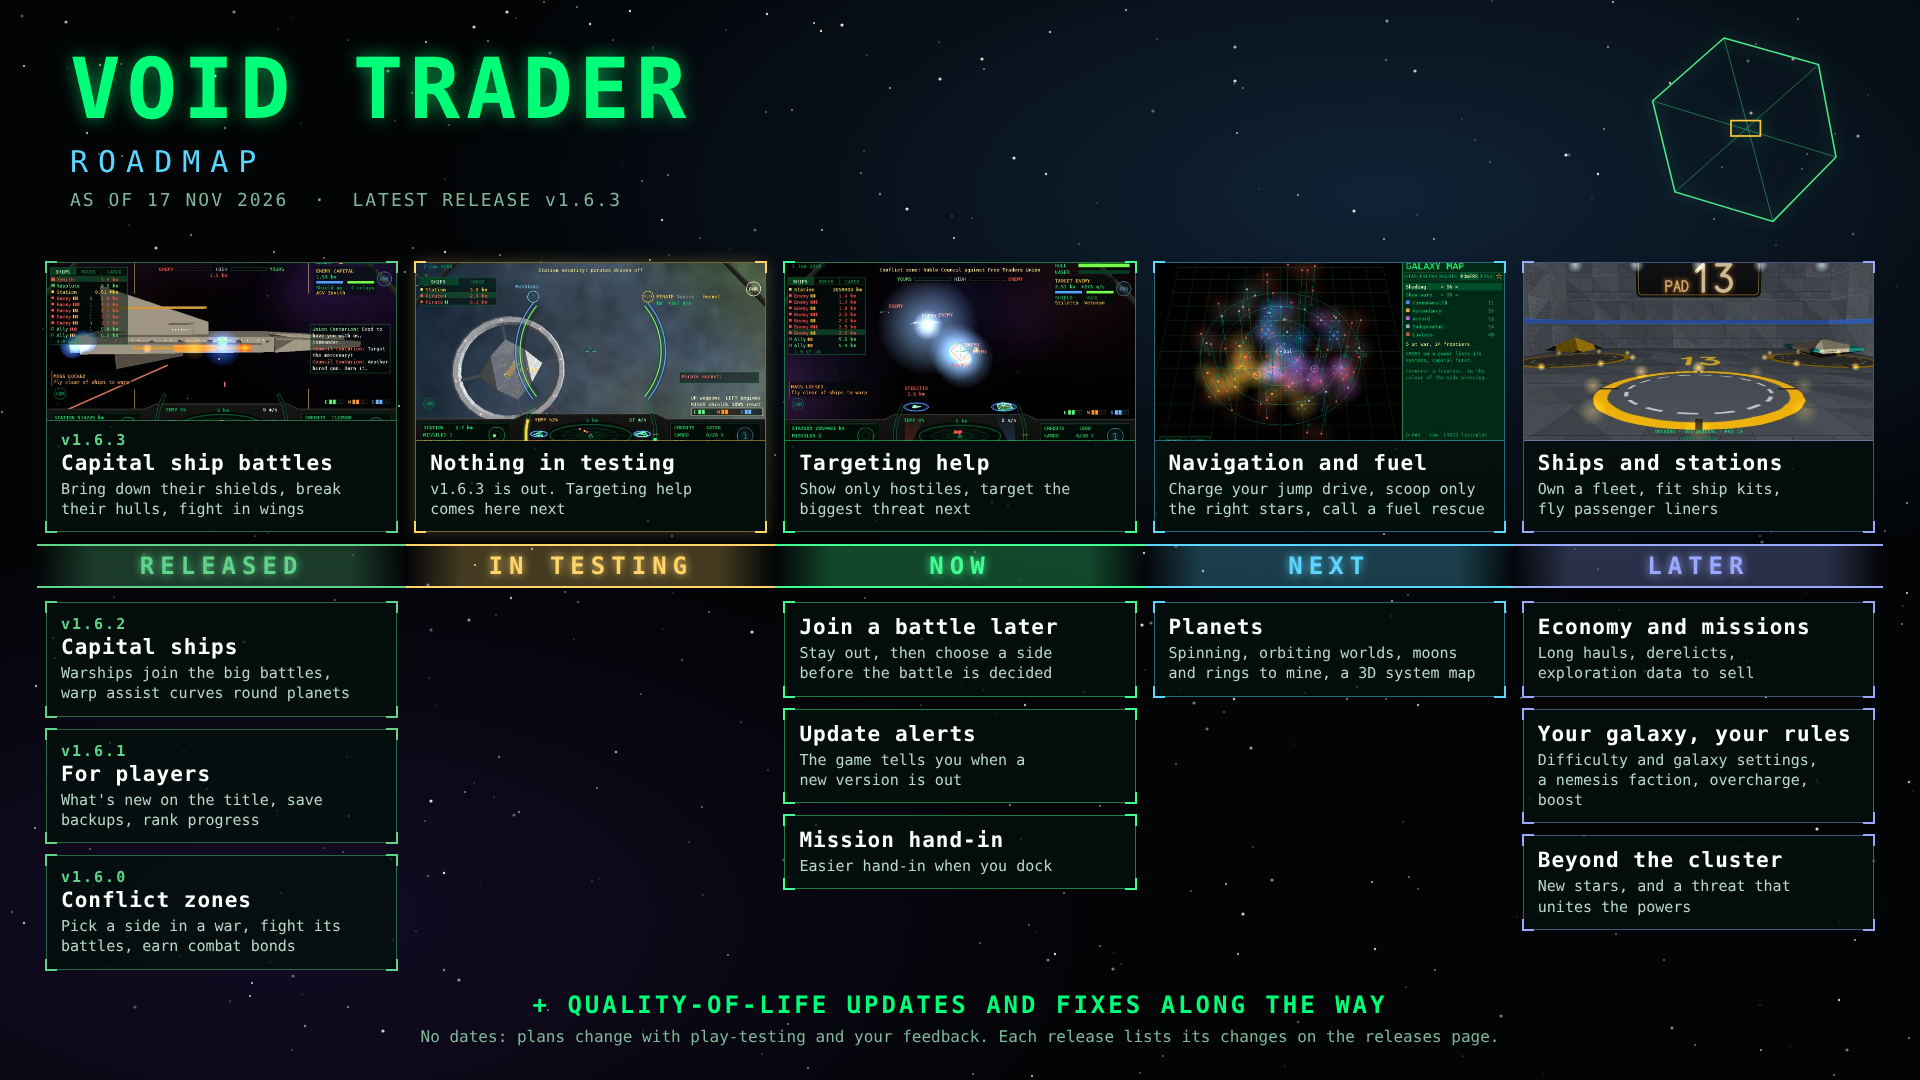
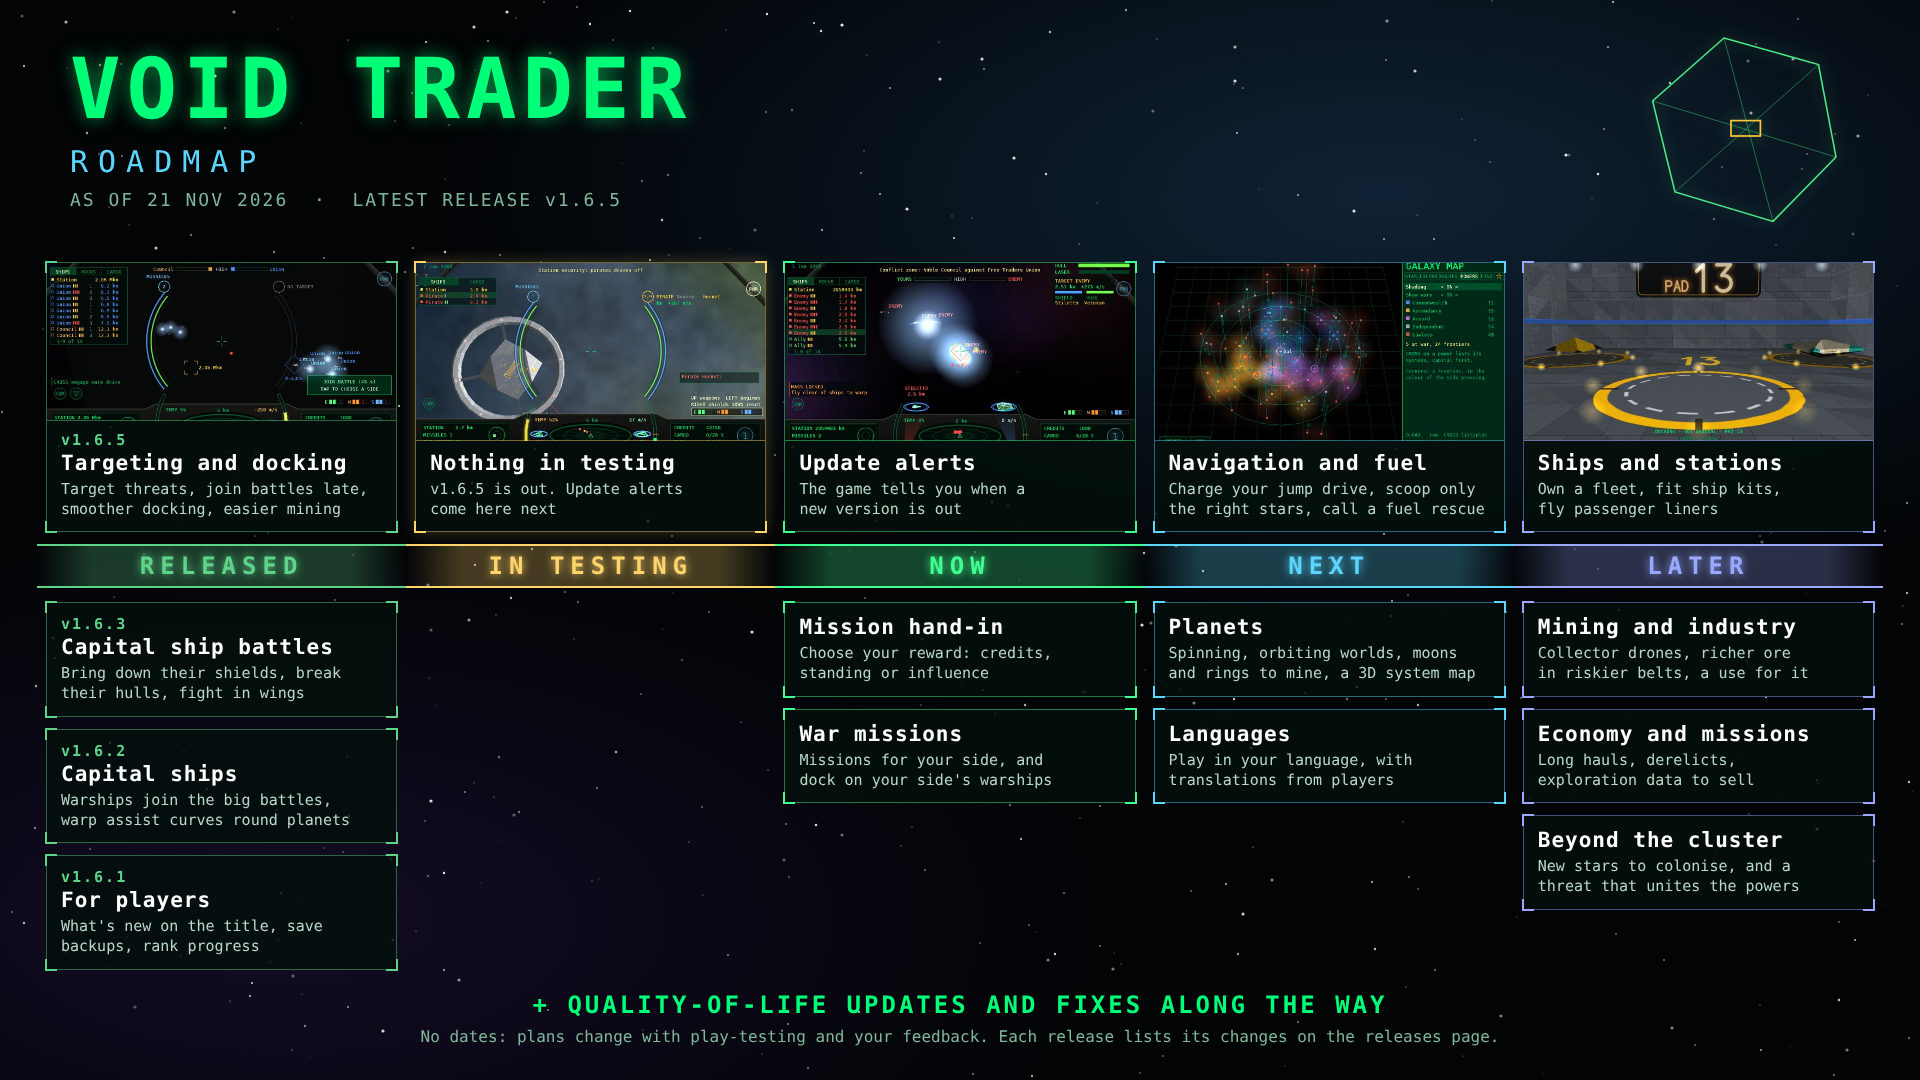
Void Trader v1.6.5: README, licence and notices

diff --git a/README.md b/README.md
@@ -31,6 +31,8 @@ is not published, and pull requests aren't accepted.
   reputation with every faction, and a news feed of what's happening near you.
 - Newtonian flight, docking by hand (or with a docking computer), lasers, an autocannon, missiles and
   chaff, power management, ranked pirates and police, interdictions, and mining with lasers and charges.
+  In big fights, a hostiles-only filter and auto target by threat or by wing; stay out of a battle and
+  you can still join it before it's decided.
 - 27 ships to buy, outfit, paint and name; a cockpit with holograms of your ship and your target.
 - Three graphics modes: Classic wireframe, Enhanced, and Ultra with painted ships and stations, docking
   hangars and planet surfaces down to low orbit.
